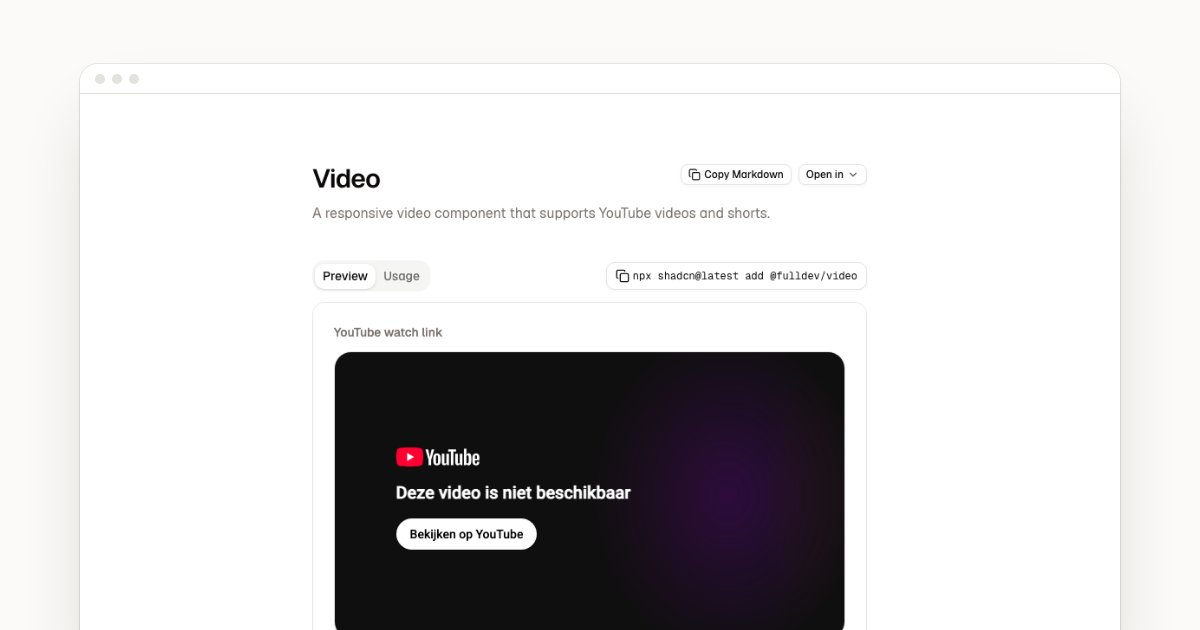
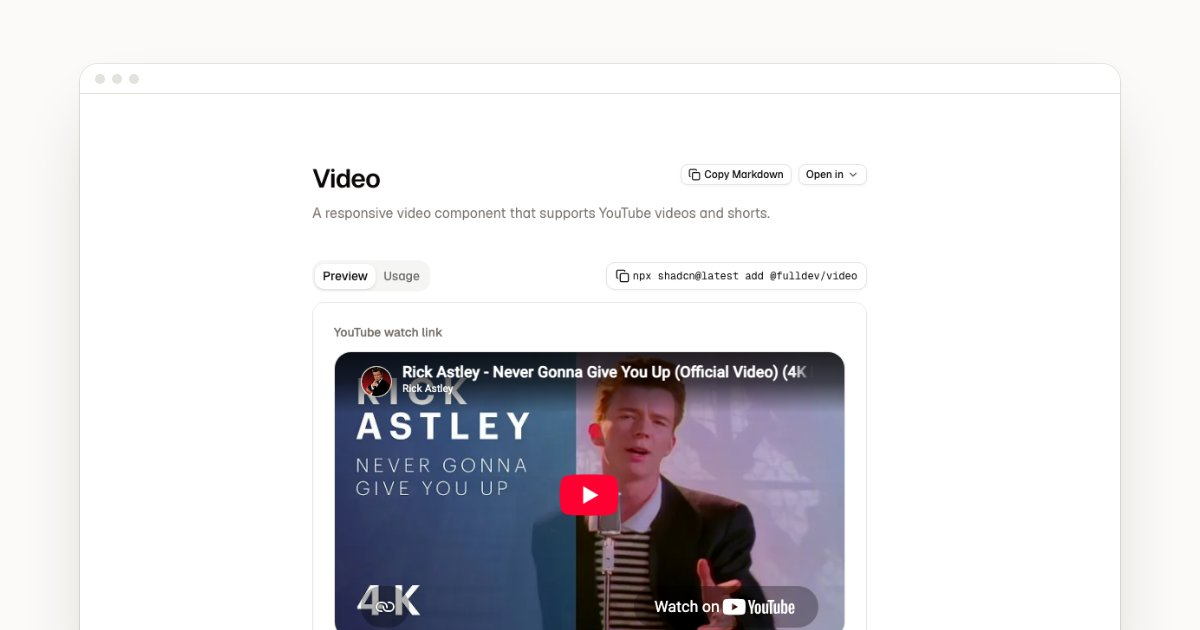
Capture YouTube examples in English from localhost

Changed region(s): [[0.2775, 0.5429, 0.7092, 1.0]]

diff --git a/scripts/og.ts b/scripts/og.ts
@@ -20,7 +20,7 @@ const root = process.cwd()
 const dist = join(root, "dist")
 const out = join(root, "public", "og")
 const port = Number(process.env.OG_PORT ?? 4517)
-const base = `http://127.0.0.1:${port}`
+const base = `http://localhost:${port}`
 const shot = { width: 1680, height: 882 }
 const card = { width: 1200, height: 630 }
 
@@ -129,6 +129,7 @@ if (process.argv.includes("--check")) {
     browser = await chromium.launch({ executablePath: process.env.CHROME })
     const context = await browser.newContext({
       viewport: shot,
+      locale: "en-US",
       colorScheme: "light",
       reducedMotion: "reduce",
     })
